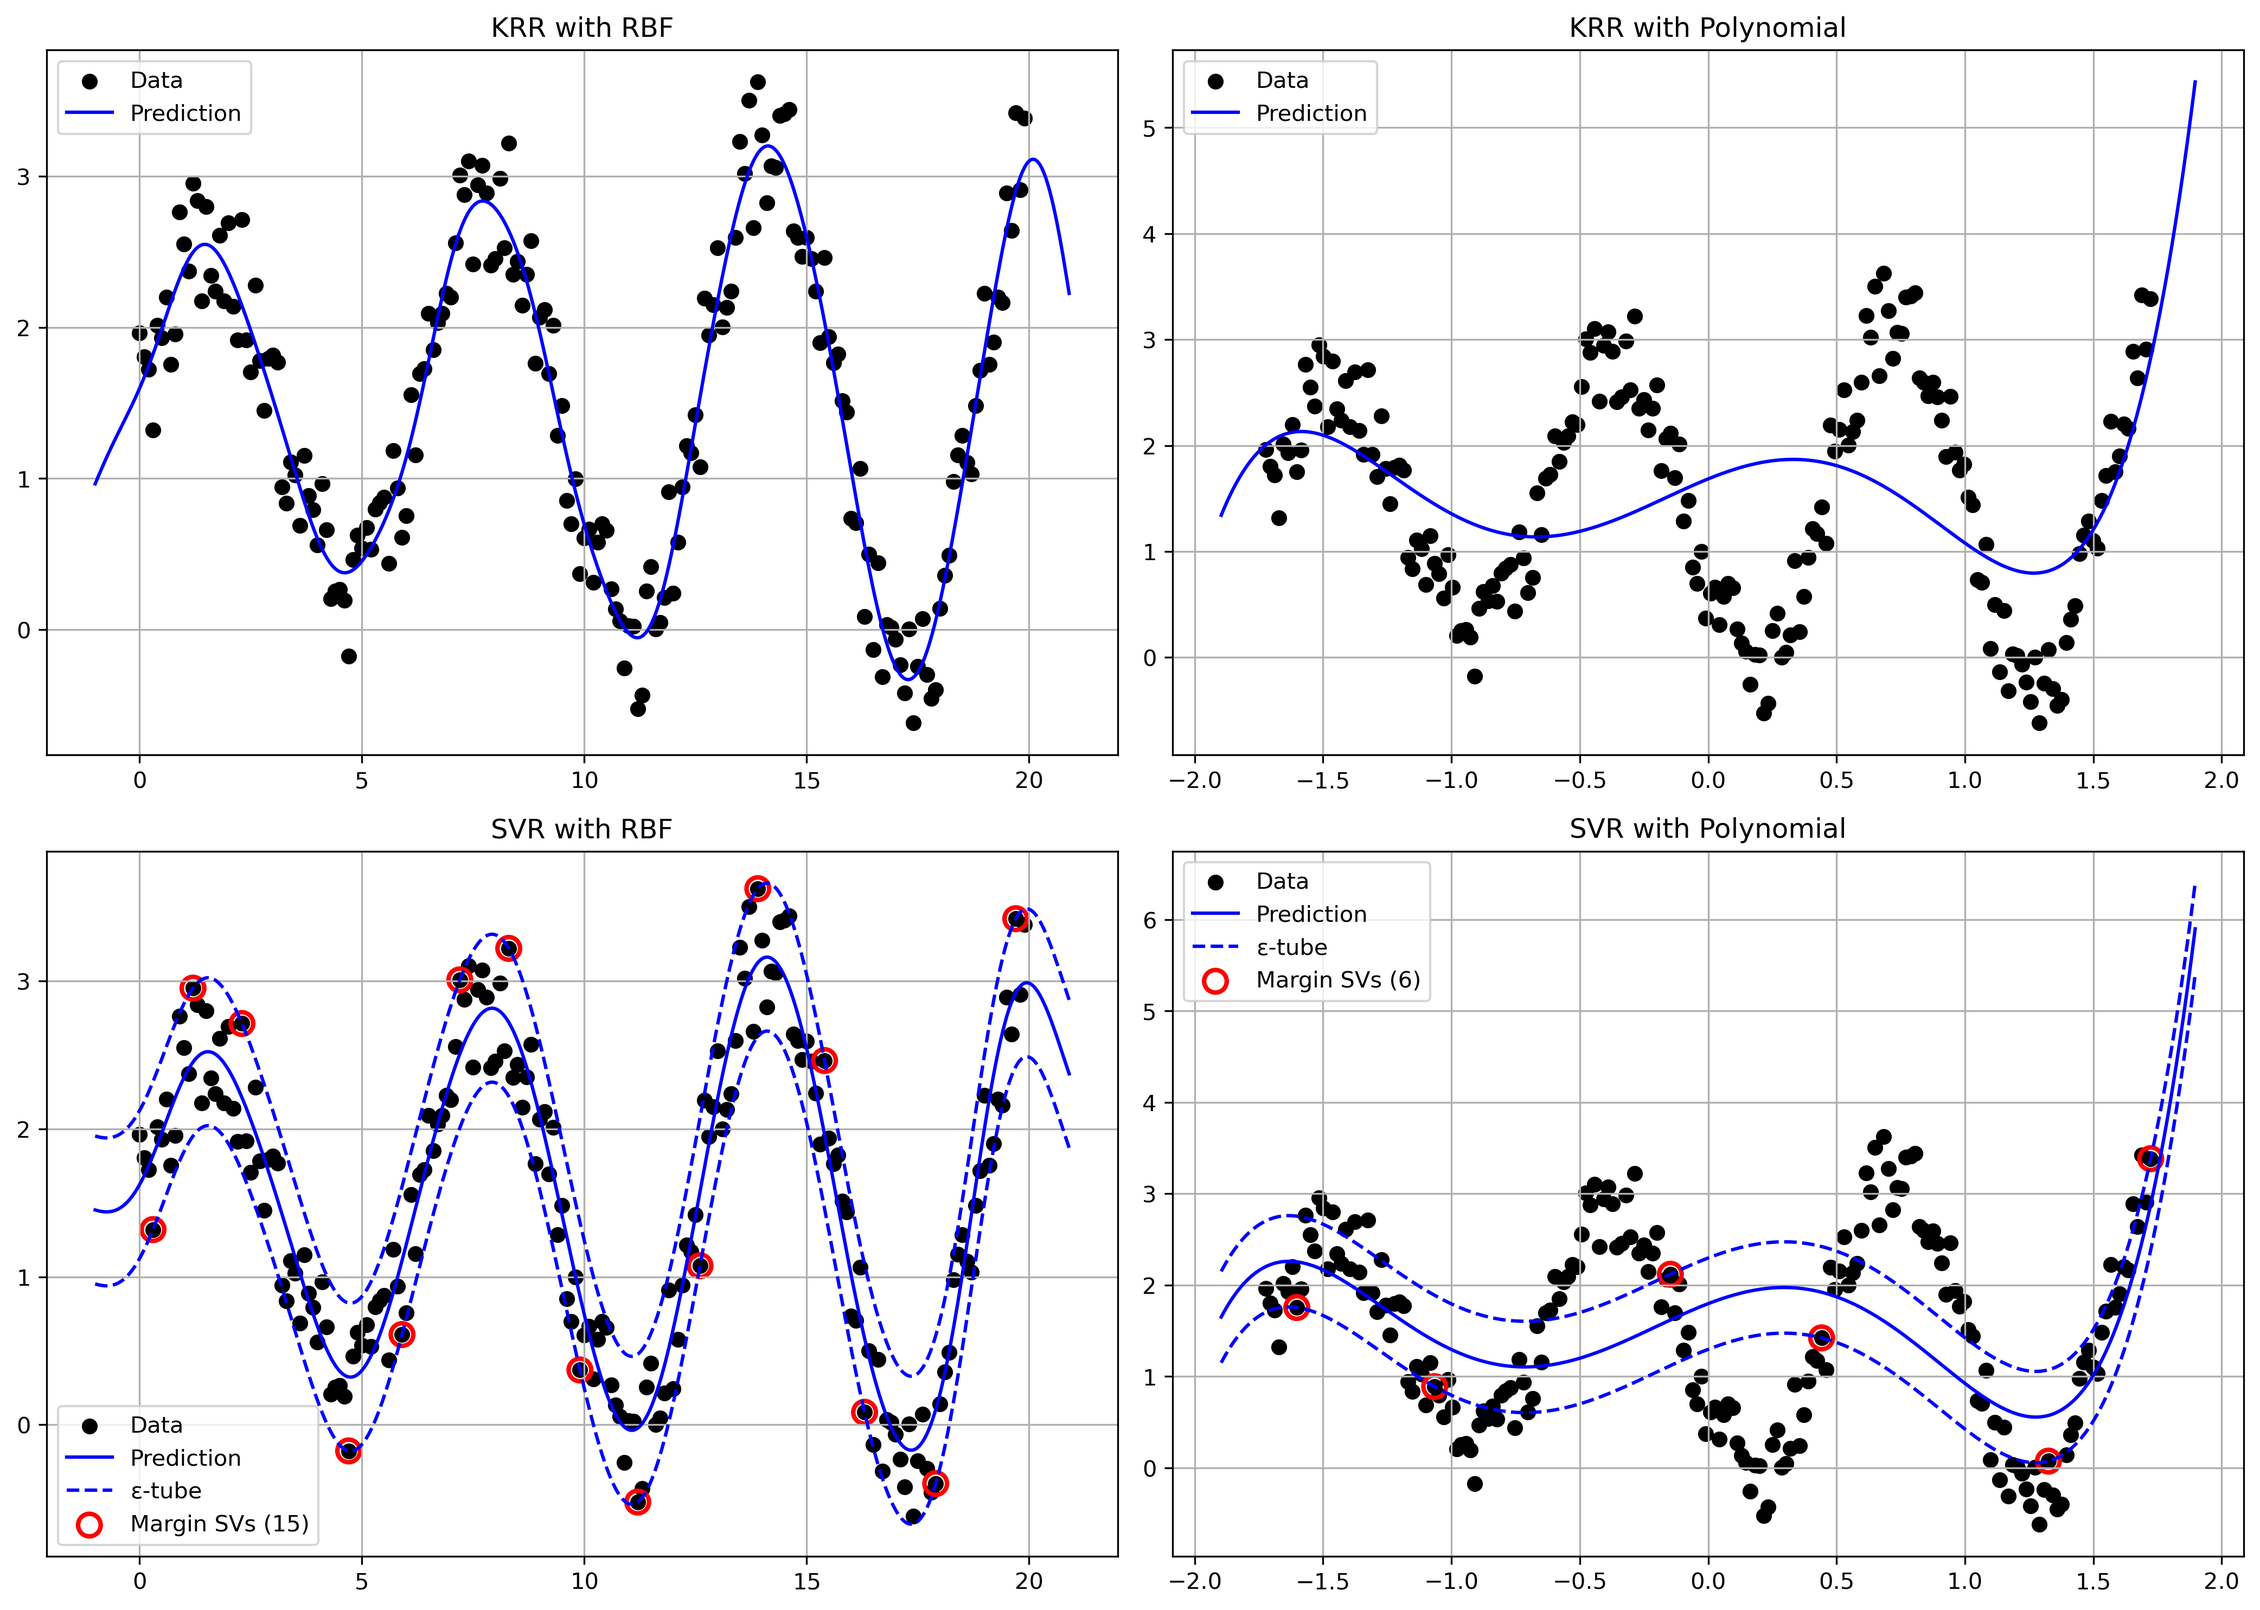
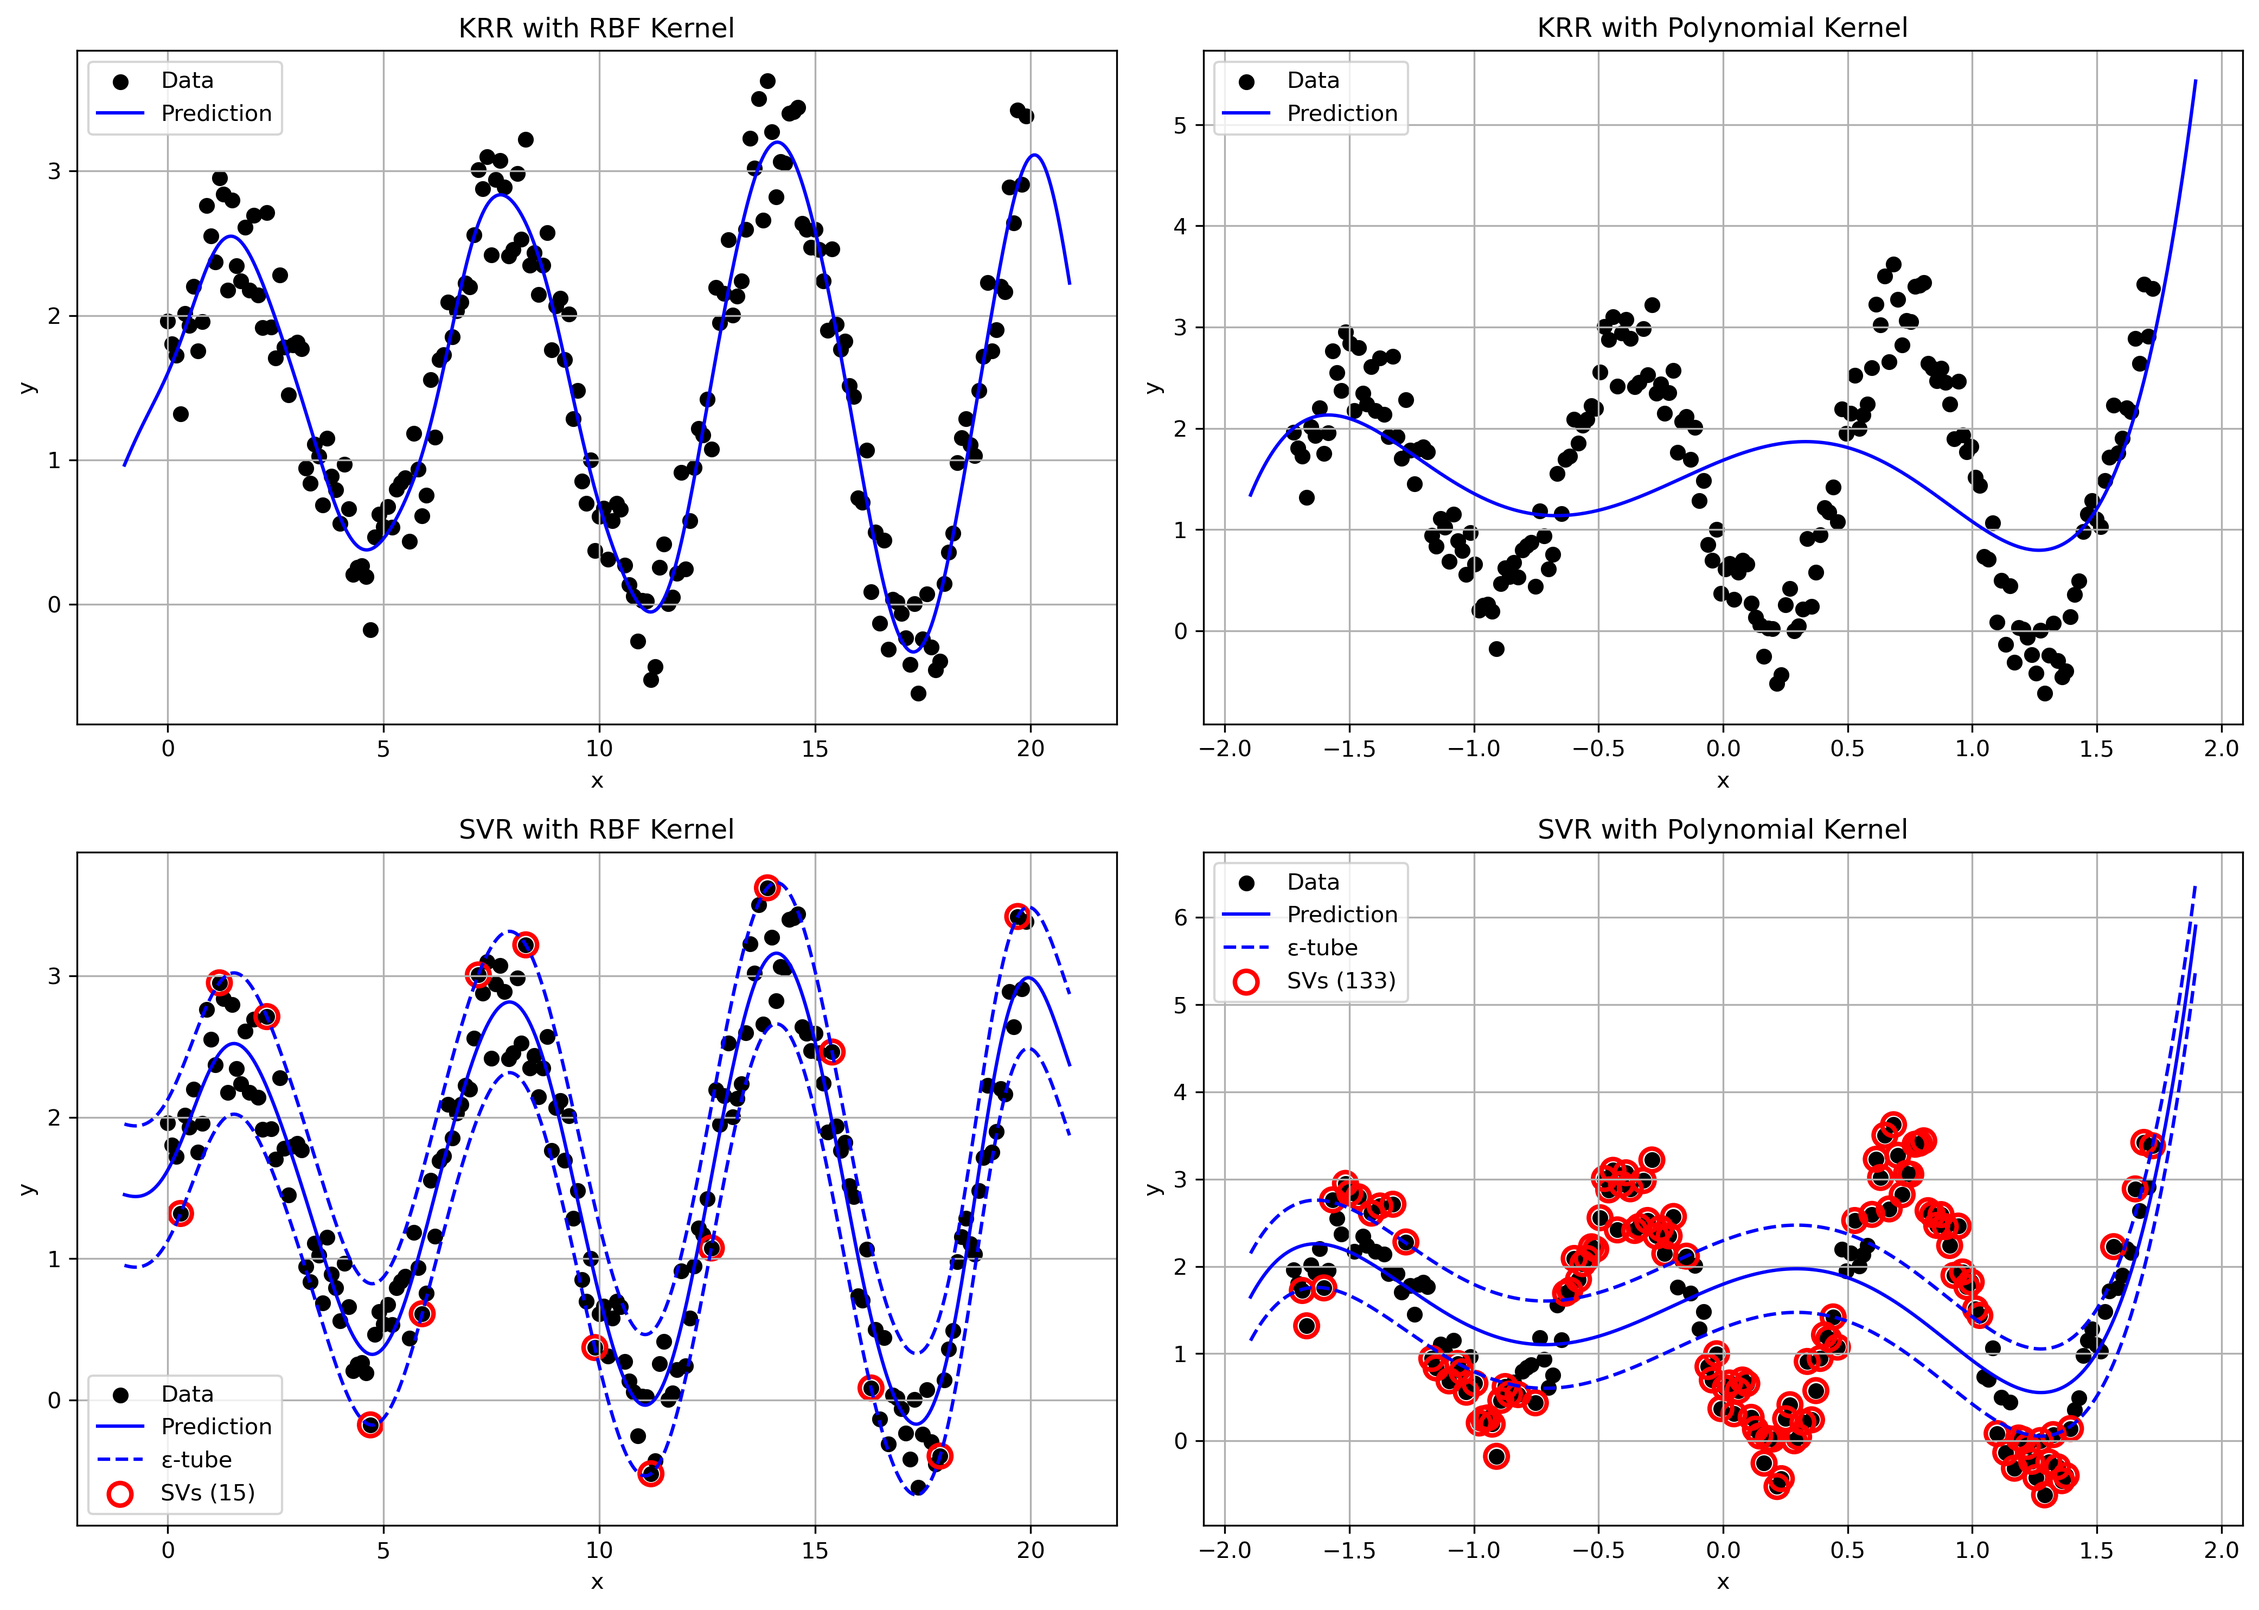
Compared my implementation of the models and functions with the scikit learn implementation
Result: the plots are nearly identical

diff --git a/Kernels/hw_kernels.py b/Kernels/hw_kernels.py
@@ -2,10 +2,13 @@ import numpy as np
 from cvxopt import matrix, solvers
 import matplotlib.pyplot as plt
 import pandas as pd
-from sklearn.preprocessing import StandardScaler
 from sklearn.model_selection import train_test_split
 from sklearn.metrics import mean_squared_error
 from sklearn.model_selection import KFold
+from sklearn.preprocessing import StandardScaler
+from sklearn.kernel_ridge import KernelRidge
+from sklearn.svm import SVR as sklearn_SVR
+from sklearn.metrics.pairwise import rbf_kernel, polynomial_kernel
 
 # Part 1
 class RBF:
@@ -164,23 +167,24 @@ class SVR:
 
     def get_support_vectors(self, tol=1e-3):
         """
-        Returns support vectors that lie exactly on the margin (|f(x_i) - y_i| = ε).
+        Returns all support vectors (points with non-zero alpha or alpha*).
+        Includes:
+          1. Points on the margin (|f(x_i) - y_i| = ε ± tol).
+          2. Points outside the ε-tube (|f(x_i) - y_i| > ε).
         """
         y_pred = self.predict(self.X)
         residuals = np.abs(y_pred - self.y)
 
-        on_margin = np.abs(residuals - self.epsilon) < tol
-
-        sv_mask = ((self.alpha > tol) | (self.alpha_star > tol)) & on_margin
+        # Support vectors are points with non-zero alpha/alpha* AND error >= ε - tol
+        sv_mask = ((self.alpha > tol) | (self.alpha_star > tol)) & (residuals >= self.epsilon - tol)
 
         return {
             'support_vectors': self.X[sv_mask],
             'target_values': self.y[sv_mask],
             'alpha': self.alpha[sv_mask],
             'alpha_star': self.alpha_star[sv_mask],
-            'indices': np.where(sv_mask)[0] # their indices in the training set
+            'indices': np.where(sv_mask)[0]
         }
-
 
 def plot_sine_regression_demo():
     df = pd.read_csv("sine.csv")
@@ -197,22 +201,22 @@ def plot_sine_regression_demo():
     X_grid_scaled = scaler.transform(X_grid)
 
     models = {
-        "KRR with RBF": {
+        "KRR with RBF Kernel": {
             "model": KernelizedRidgeRegression(kernel=rbf_kernel, lambda_=0.1),
             "X_grid": X_grid,
             "X_used": X
         },
-        "KRR with Polynomial": {
+        "KRR with Polynomial Kernel": {
             "model": KernelizedRidgeRegression(kernel=poly_kernel, lambda_=0.001),
             "X_grid": X_grid_scaled,
             "X_used": X_scaled
         },
-        "SVR with RBF": {
+        "SVR with RBF Kernel": {
             "model": SVR(kernel=rbf_kernel, lambda_=0.01, epsilon=0.5),
             "X_grid": X_grid,
             "X_used": X
         },
-        "SVR with Polynomial": {
+        "SVR with Polynomial Kernel": {
             "model": SVR(kernel=poly_kernel, lambda_=0.01, epsilon=0.5),
             "X_grid": X_grid_scaled,
             "X_used": X_scaled
@@ -248,16 +252,94 @@ def plot_sine_regression_demo():
                 edgecolors='red',
                 s=100,
                 linewidths=2,
-                label=f"Margin SVs ({len(sv_info['indices'])})"
+                label=f"SVs ({len(sv_info['indices'])})"
             )
 
         axes[i].set_title(title)
+        axes[i].set_xlabel("x")
+        axes[i].set_ylabel("y")
         axes[i].legend()
         axes[i].grid(True)
 
     fig.tight_layout()
     plt.savefig("visualizations/sine_plot.png", dpi=300, bbox_inches='tight')
     plt.show()
+
+
+def plot_sine_regression_demo_sklearn():
+    df = pd.read_csv("sine.csv")
+    X = df["x"].values.reshape(-1, 1)
+    y = df["y"].values
+
+    scaler = StandardScaler()
+    X_scaled = scaler.fit_transform(X)
+
+    X_grid = np.linspace(min(X.ravel()) - 1, max(X.ravel()) + 1, 500).reshape(-1, 1)
+    X_grid_scaled = scaler.transform(X_grid)
+
+    models = {
+        "KRR with RBF Kernel": {
+            "model": KernelRidge(alpha=0.1, kernel='rbf', gamma=1.0),  # gamma = 1/(2*sigma^2)
+            "X_grid": X_grid,
+            "X_used": X
+        },
+        "KRR with Polynomial Kernel": {
+            "model": KernelRidge(alpha=0.001, kernel='poly', degree=5, coef0=1),
+            "X_grid": X_grid_scaled,
+            "X_used": X_scaled
+        },
+        "SVR with RBF Kernel": {
+            "model": sklearn_SVR(kernel='rbf', C=100, epsilon=0.5, gamma=1.0),  # C = 1/lambda
+            "X_grid": X_grid,
+            "X_used": X
+        },
+        "SVR with Polynomial Kernel": {
+            "model": sklearn_SVR(kernel='poly', C=100, epsilon=0.5, degree=5, coef0=1),
+            "X_grid": X_grid_scaled,
+            "X_used": X_scaled
+        }
+    }
+
+    fig, axes = plt.subplots(2, 2, figsize=(14, 10))
+    axes = axes.ravel()
+
+    for i, (title, entry) in enumerate(models.items()):
+        model = entry["model"]
+        X_used = entry["X_used"]
+        X_grid_used = entry["X_grid"]
+
+        model.fit(X_used, y)
+        y_pred = model.predict(X_grid_used)
+
+        axes[i].scatter(X_used, y, color="black", label="Data")
+        axes[i].plot(X_grid_used, y_pred, color="blue", label="Prediction")
+
+        if isinstance(model, sklearn_SVR):
+            y_pred_upper = y_pred + model.epsilon
+            y_pred_lower = y_pred - model.epsilon
+            axes[i].plot(X_grid_used, y_pred_upper, color="blue", linestyle="--", label="ε-tube")
+            axes[i].plot(X_grid_used, y_pred_lower, color="blue", linestyle="--")
+
+            axes[i].scatter(
+                X_used[model.support_],
+                y[model.support_],
+                facecolors='none',
+                edgecolors='red',
+                s=100,
+                linewidths=2,
+                label=f"SVs ({len(model.support_)})"
+            )
+
+        axes[i].set_title(title)
+        axes[i].set_xlabel("x")
+        axes[i].set_ylabel("y")
+        axes[i].legend()
+        axes[i].grid(True)
+
+    fig.tight_layout()
+    plt.savefig("visualizations/sine_plot_sklearn.png", dpi=300, bbox_inches='tight')
+    plt.show()
+
 
 
 # Part 2
@@ -465,11 +547,13 @@ def analyze_housing_data():
                             textcoords="offset points", xytext=(0, -15), ha='center', fontsize=8, color='orange')
 
 
-    fig.subplots_adjust(hspace=0.3)
+    fig.tight_layout()
+    fig.subplots_adjust(hspace=0.2, wspace=0.1)
     plt.savefig('visualizations/compare_KRR_SVR_kernels_individual.png')
     plt.show()
 
 
 if __name__ == "__main__":
     # plot_sine_regression_demo()
-    analyze_housing_data()
+    plot_sine_regression_demo_sklearn()
+    # analyze_housing_data()
